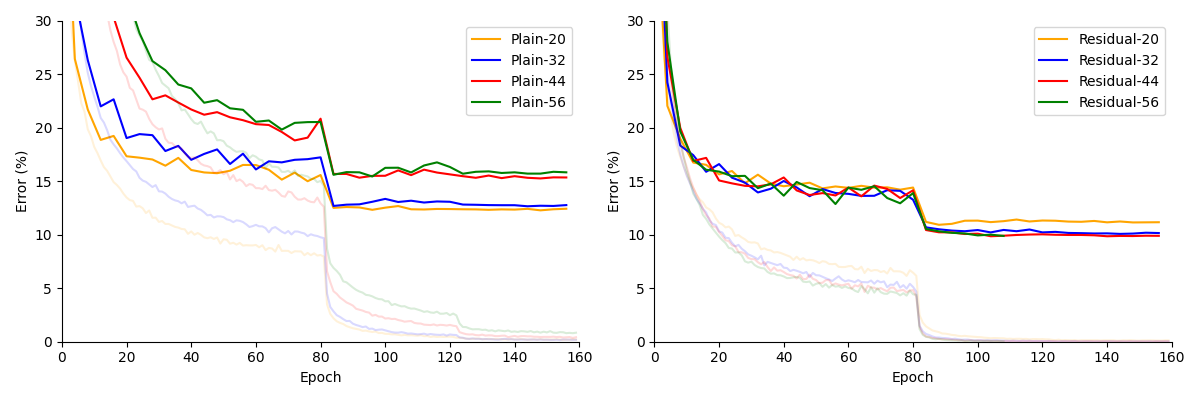
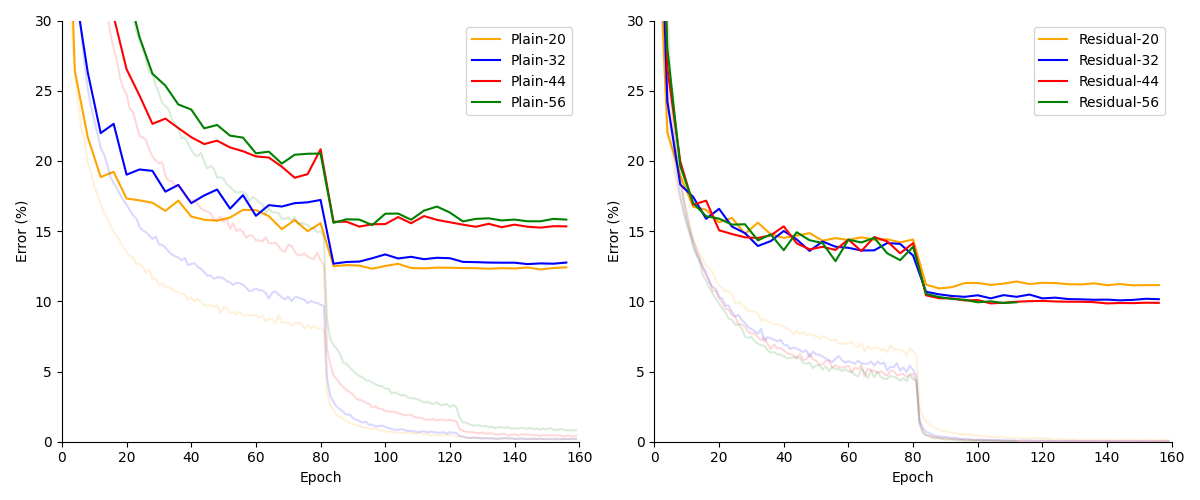
increased side by side plot height to show 56 layer w/ warmup

diff --git a/plot.py b/plot.py
@@ -69,7 +69,7 @@ def plain_vs_residual_table(show=False):
 
 
 def side_by_side(show=False):
-    fig, axs = plt.subplots(1, 2, figsize=(12, 4))
+    fig, axs = plt.subplots(1, 2, figsize=(12, 5))
     for p in axs:
         format_plot(p)
     plain, residual = axs
